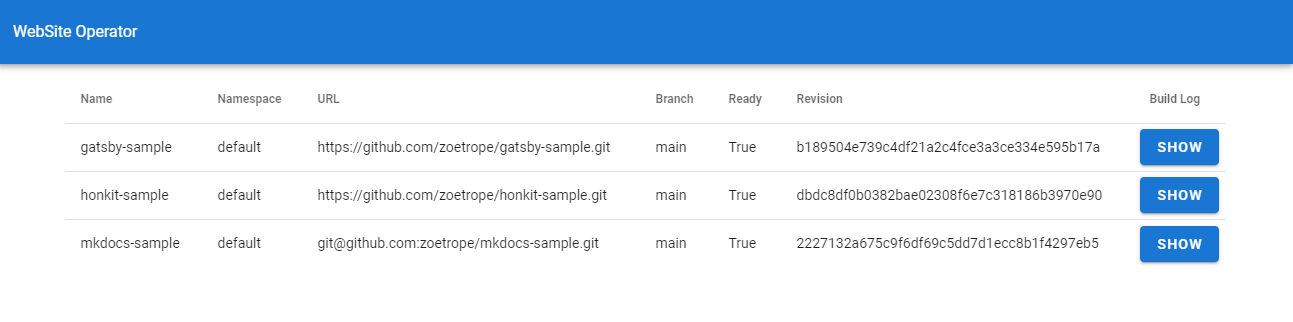
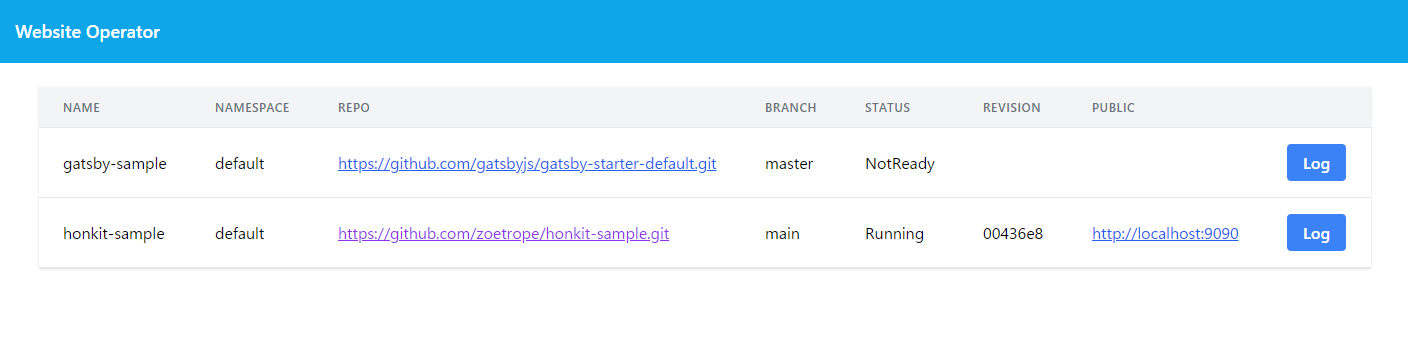
Show pod status and latest log

diff --git a/ui/frontend/src/index.html b/ui/frontend/src/index.html
@@ -57,12 +57,16 @@
                 <tr>
                   <td class="px-6 py-4 whitespace-nowrap" x-text="website.name"></td>
                   <td class="px-6 py-4 whitespace-nowrap" x-text="website.namespace"></td>
-                  <td class="px-6 py-4 whitespace-nowrap" x-text="website.repo"></td>
+                  <td class="px-6 py-4 whitespace-nowrap" >
+                    <a class="underline text-blue-600 hover:text-blue-800 visited:text-purple-600" x-bind:href="website.repo" x-text="website.repo"></a>
+                  </td>
                   <td class="px-6 py-4 whitespace-nowrap" x-text="website.branch"></td>
                   <td class="px-6 py-4 whitespace-nowrap" x-text="website.status"></td>
                   <td class="px-6 py-4 whitespace-nowrap" x-text="website.revision"></td>
-                  <td class="px-6 py-4 whitespace-nowrap" x-text="website.public"></td>
-                  <td class="px-6 py-4 whitespace-nowrap ">
+                  <td class="px-6 py-4 whitespace-nowrap" >
+                    <a class="underline text-blue-600 hover:text-blue-800 visited:text-purple-600" x-bind:href="website.public" x-text="website.public"></a>
+                  </td>
+                  <td class="px-6 py-4 whitespace-nowrap">
                     <button type="button" class="bg-blue-500 hover:bg-blue-700 text-white font-bold py-2 px-4 rounded" @click="getLog(website.namespace, website.name)">Log</button>
                   </td>
                 </tr>

diff --git a/ui/backend/server.go b/ui/backend/server.go
@@ -6,10 +6,9 @@ import (
 	"net/http"
 	"strings"
 
-	"github.com/zoetrope/website-operator/controllers"
-
 	"github.com/cybozu-go/log"
 	"github.com/zoetrope/website-operator/api/v1beta1"
+	"github.com/zoetrope/website-operator/controllers"
 	corev1 "k8s.io/api/core/v1"
 	"k8s.io/apimachinery/pkg/labels"
 	"k8s.io/client-go/kubernetes"
@@ -75,12 +74,17 @@ func (s apiServer) listWebSites(w http.ResponseWriter, r *http.Request) {
 			http.Error(w, err.Error(), http.StatusInternalServerError)
 			return
 		}
+		rev := item.Status.Revision
+		if len(rev) > 7 {
+			rev = rev[:7]
+		}
 		resp[i] = website{
 			Namespace: item.Namespace,
 			Name:      item.Name,
 			Status:    status,
-			Revision:  item.Status.Revision,
+			Revision:  rev,
 			RepoURL:   item.Spec.RepoURL,
+			PublicURL: item.Spec.PublicURL,
 			Branch:    item.Spec.Branch,
 		}
 	}
@@ -114,10 +118,10 @@ func (s apiServer) getStatus(r *http.Request, website v1beta1.WebSite) (string, 
 
 	for _, pod := range pods.Items {
 		if pod.Status.Phase != corev1.PodRunning {
-			return "Error", nil
+			return string(pod.Status.Phase), nil
 		}
 	}
-	return "Ready", nil
+	return "Running", nil
 }
 
 func (s apiServer) getBuildLog(w http.ResponseWriter, r *http.Request) {
@@ -147,7 +151,16 @@ func (s apiServer) getBuildLog(w http.ResponseWriter, r *http.Request) {
 		http.Error(w, "not found", http.StatusNotFound)
 		return
 	}
-	req := s.rawClient.CoreV1().Pods(ns).GetLogs(pods.Items[0].Name, &corev1.PodLogOptions{
+	latestPod := pods.Items[0]
+	creationTimestamp := latestPod.GetCreationTimestamp().Time
+	for _, pod := range pods.Items {
+		if pod.GetCreationTimestamp().After(creationTimestamp) {
+			latestPod = pod
+			creationTimestamp = pod.GetCreationTimestamp().Time
+		}
+	}
+
+	req := s.rawClient.CoreV1().Pods(ns).GetLogs(latestPod.GetName(), &corev1.PodLogOptions{
 		Container: "build",
 	})
 
